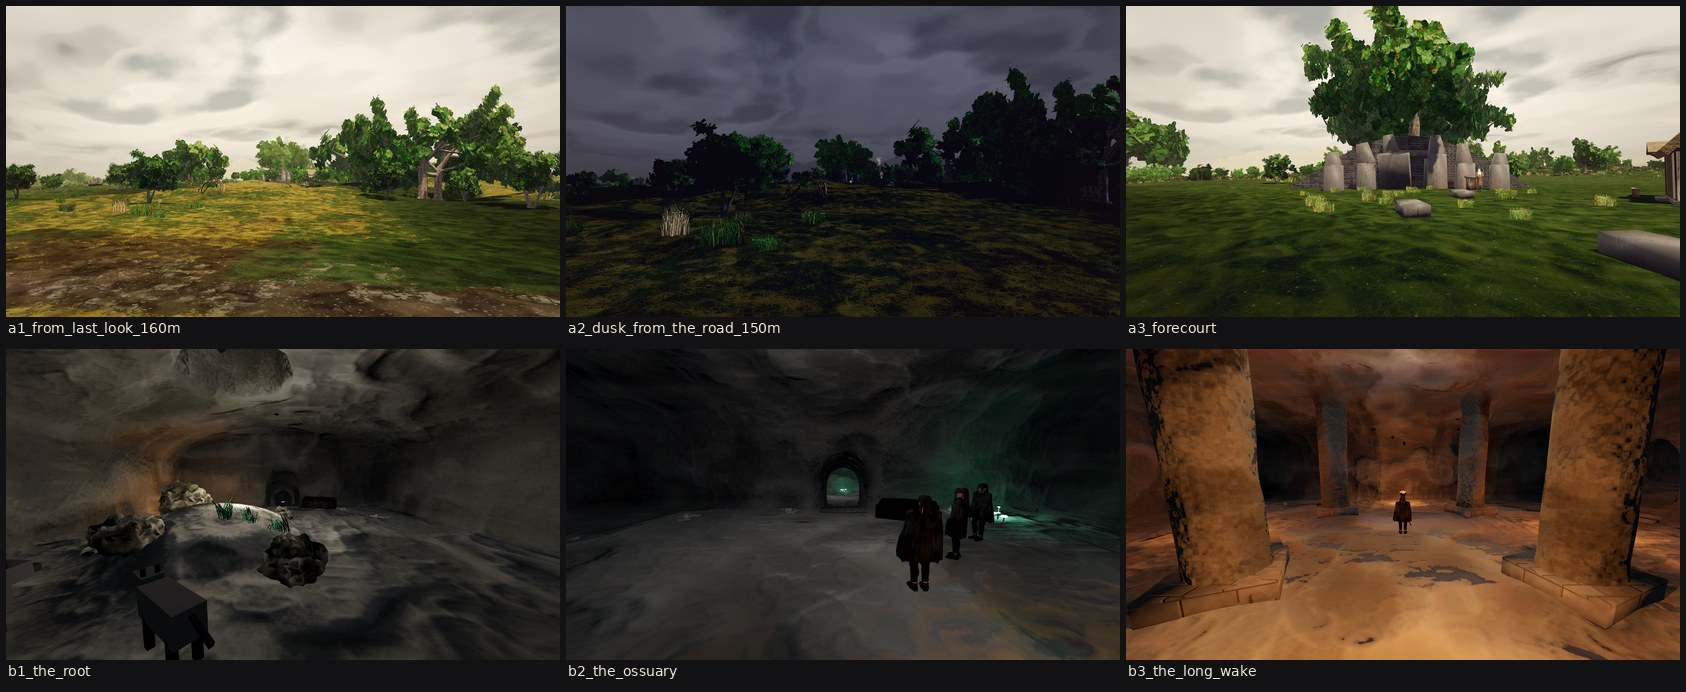
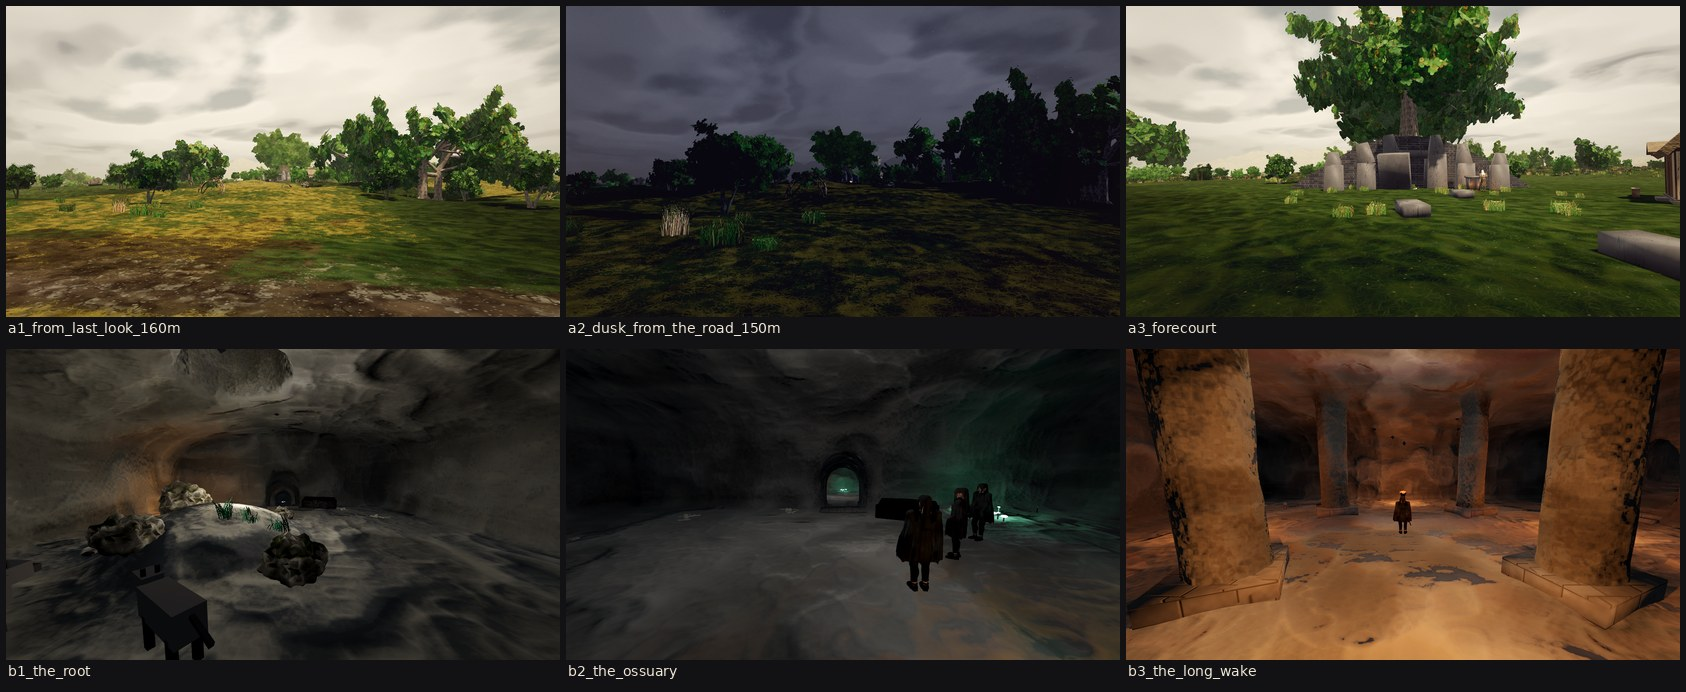
The Wake Oaks stand twice any oak on the down, and PROGRESS says what Wake Barrow is, how it was seen and measured, and why no sightline was added for the Hum Stone
The oaks on the barrow's back were the scatter's own size and were lost among the down's oaks at
150 m; they are now 24-27 m, seated by their crown's middle on the barrow's turf.
region_check hearthvale --godot --edited wake_barrow: PASS. The eye-height shots from the Brow road
and the forecourt are in docs/review/world_life/hearthvale/phase2_wake_barrow.jpg.

The Hum Stone already claims three sightlines; the builder notches land and keeps rock out of a
line's corridor, but the tree scatter does not read the lines, so no sightline can clear its trees.

Claude-Session: https://claude.ai/code/session_0112mWM76VHFrF6Lkz5ygd61

diff --git a/PROGRESS.md b/PROGRESS.md
@@ -15708,10 +15708,80 @@ xvfb, before and after each change). What the renders showed, and what changed:
 - The two WORLD_LIFE §6 pytest files: 8 passed.
 
 **Not done:**
-- No third large place. The machine's three heavy slots were shared by seven agents, and each render
-  waited for a slot.
+- A third large place was not in this pass. The machine's three heavy slots were shared by seven
+  agents, and each render waited for a slot. It came after: Wake Barrow, below.
 - The places are seen on a flat pad, and the two large ones and Orm's also on the real ground through
   their previews (poi_sheet, all views within budget: at most 1093 draws and 1.20 M primitives), not
   yet in the built world. The coordinator's w4096h build will lay their pads and paths.
 - The barrows and pounds are still small at a distance by nature. The weak ones left (score 3) are
   single stones and the hut, each with a touch.
+
+### The third large place: Wake Barrow (2026-10-02)
+
+The coordinator asked for a third large place of another kind than a mine or a monolith.
+- **Wake Barrow** (580, 2680, pad 42, level) is a long barrow on the spine of Hound Down, its
+  forecourt toward the Brow road.
+  - Seen from afar: seven oaks of 24-27 m on its back, the Wake Oaks, one planted for each
+    barrow-wife. The mound is 50 m long, 4.6 m high at its square face and slumps to a rounded tail.
+  - The face is walled in knapped flint between a crescent of six sarsens, the tallest 5.6 m either
+    side of a three-stone portal.
+  - The blocking stone has walked out of its socket and leans beside the way in, over the score it
+    left in the chalk.
+  - In the forecourt: the Crowles' lamp in its niche, three coffin-rests up the way from the road
+    (touches), and Tamsin Crowle's watch hut with her chest.
+  - After dark two wakeless stand at the tail (`core:encounter/wake_barrow`).
+- Inside is `core:interior/wake_barrow_crypt` (crypt, seed 2204, 9 written rooms, about 14.5 m of
+  descent, plus the drop, the secret and the barred way back): the passage, the side cists, a stair,
+  the wake hall with the dead on its benches, the washing pool (an underground lake), the root (a
+  collapsed shaft where an oak's root broke the roof and down wolves come in), the ossuary, the
+  barrow-wife's hall, and the boss arena.
+  - The foes are the new `core:enemy/wakeless` (the Ash Winter's unwaked dead, light and chilling),
+    hedge-wights and down wolves.
+  - The boss is `core:boss/barrow_wife`, Ebba Crowle, with a crook. At half health she blows on the
+    dead lamp: a frost burst that raises the wakeless.
+  - The loot is the Barrow-Wife's Beads (an amulet, resist frost) and a rich chest.
+  - The secret room holds Ebba's wake-tally, the names she sat with. Two more notes are in the
+    passage and the ossuary.
+- Quest **The Long Wake** from Tamsin Crowle: bring up Ebba's lamp, then relight it below and let
+  the stone go back, take her to the Wardens' Roll, or keep her wake in the forecourt. There are two
+  rumours.
+- Track: an atlas track (`core:poi/wake_barrow` to Pilgrim's Ash) leaves the Brow road west of the
+  Last Look and climbs about 150 m north to the forecourt. Routed with `worldgen.roads.plan_roads`
+  on the runtime heights with its parent: 706 m, most of it the shared trunk. Its own part has a
+  p95 grade of 0.04 and a max of 0.07; the steepest grade, 0.41, is on the parent's trunk.
+  `test_atlas`, `test_pad_dams` and `test_roads`: 48 passed, 4 skipped. It holds its `visible_from`
+  line from the Last Look by the game's sight model on the current heights.
+- **The Hum Stone's view:** no sightline was added. It already has three authored lines (Rookdown,
+  Rook Mill and the Last Field). The builder honours a line by notching the land
+  (`geography.honour_sightlines`) and keeping rock out of its corridor (`crags`). The tree scatter
+  (`cells.scatter`) does not read the lines, so a sightline cannot clear the hawthorn and oak
+  between the stone and its roads. Clearing them would be a world-builder change: a tree keep-out
+  along the sightline corridors.
+- **Seen and measured:**
+  - site_review renders outside (flat pad) and every room inside, and the shots plan at eye height
+    from the Brow road (150-160 m), from 250 m east and north-west, and in the forecourt
+    (`docs/review/world_life/hearthvale/phase2_wake_barrow.jpg`).
+  - What the renders changed:
+    - The mound was a smooth half-pipe. It is now slumped and lumpy, with a broad crown and long feet.
+    - The sarsens were white pills. They are now thick grey slabs with sloped crowns.
+    - The crypt first read as the tan cave. It is now cool chalk-grey, lit by candles and daylight.
+    - The builder first faced the barrow side-on to the road. It now faces the track.
+    - The oaks were the scatter's size and lost among the down's oaks. They are now 24-27 m, twice
+      any oak round them.
+  - From the road at 150 m the oak clump stands over the forecourt on the skyline. The old build's
+    scatter oaks near the road still frame and partly hide it. From 250 m east, Hound Down's own
+    flank hides it.
+  - `region_check.py hearthvale --godot --edited core:poi/wake_barrow`: PASS, 88 draws and 87 k
+    triangles, nothing floating, buried, sunk or on a road.
+    - The oaks are seated by their crown's middle on the barrow's own turf, because the seat audit
+      tests support there.
+    - The seat audit counts 11 overlaps, all of them the seven oak crowns sharing their boxes, as a
+      clump does. The check does not fail on overlaps.
+  - `./run.sh test --filter=test_books,test_poi_encounters,test_sites_hearthvale,test_site_interiors_walk,test_pois,test_poi_preview,objects_seated_hearthvale`:
+    61 tests, 0 failed.
+    - `test_sites_hearthvale` now walks the crypt too.
+    - `test_site_interiors_walk` reached all 10 of the crypt's rooms on its seed.
+    - test_poi_encounters has a `WHAT_STANDS` row for Wake Barrow (a shared file: one row).
+  - `./run.sh quests --only=the_long_wake`: 1 of 1 quests end every way they can, 3 of 3 walks.
+  - `softlock_check.py`: 140 quests, 0 findings.
+  - The WORLD_LIFE §6 pytest files: 8 passed.
